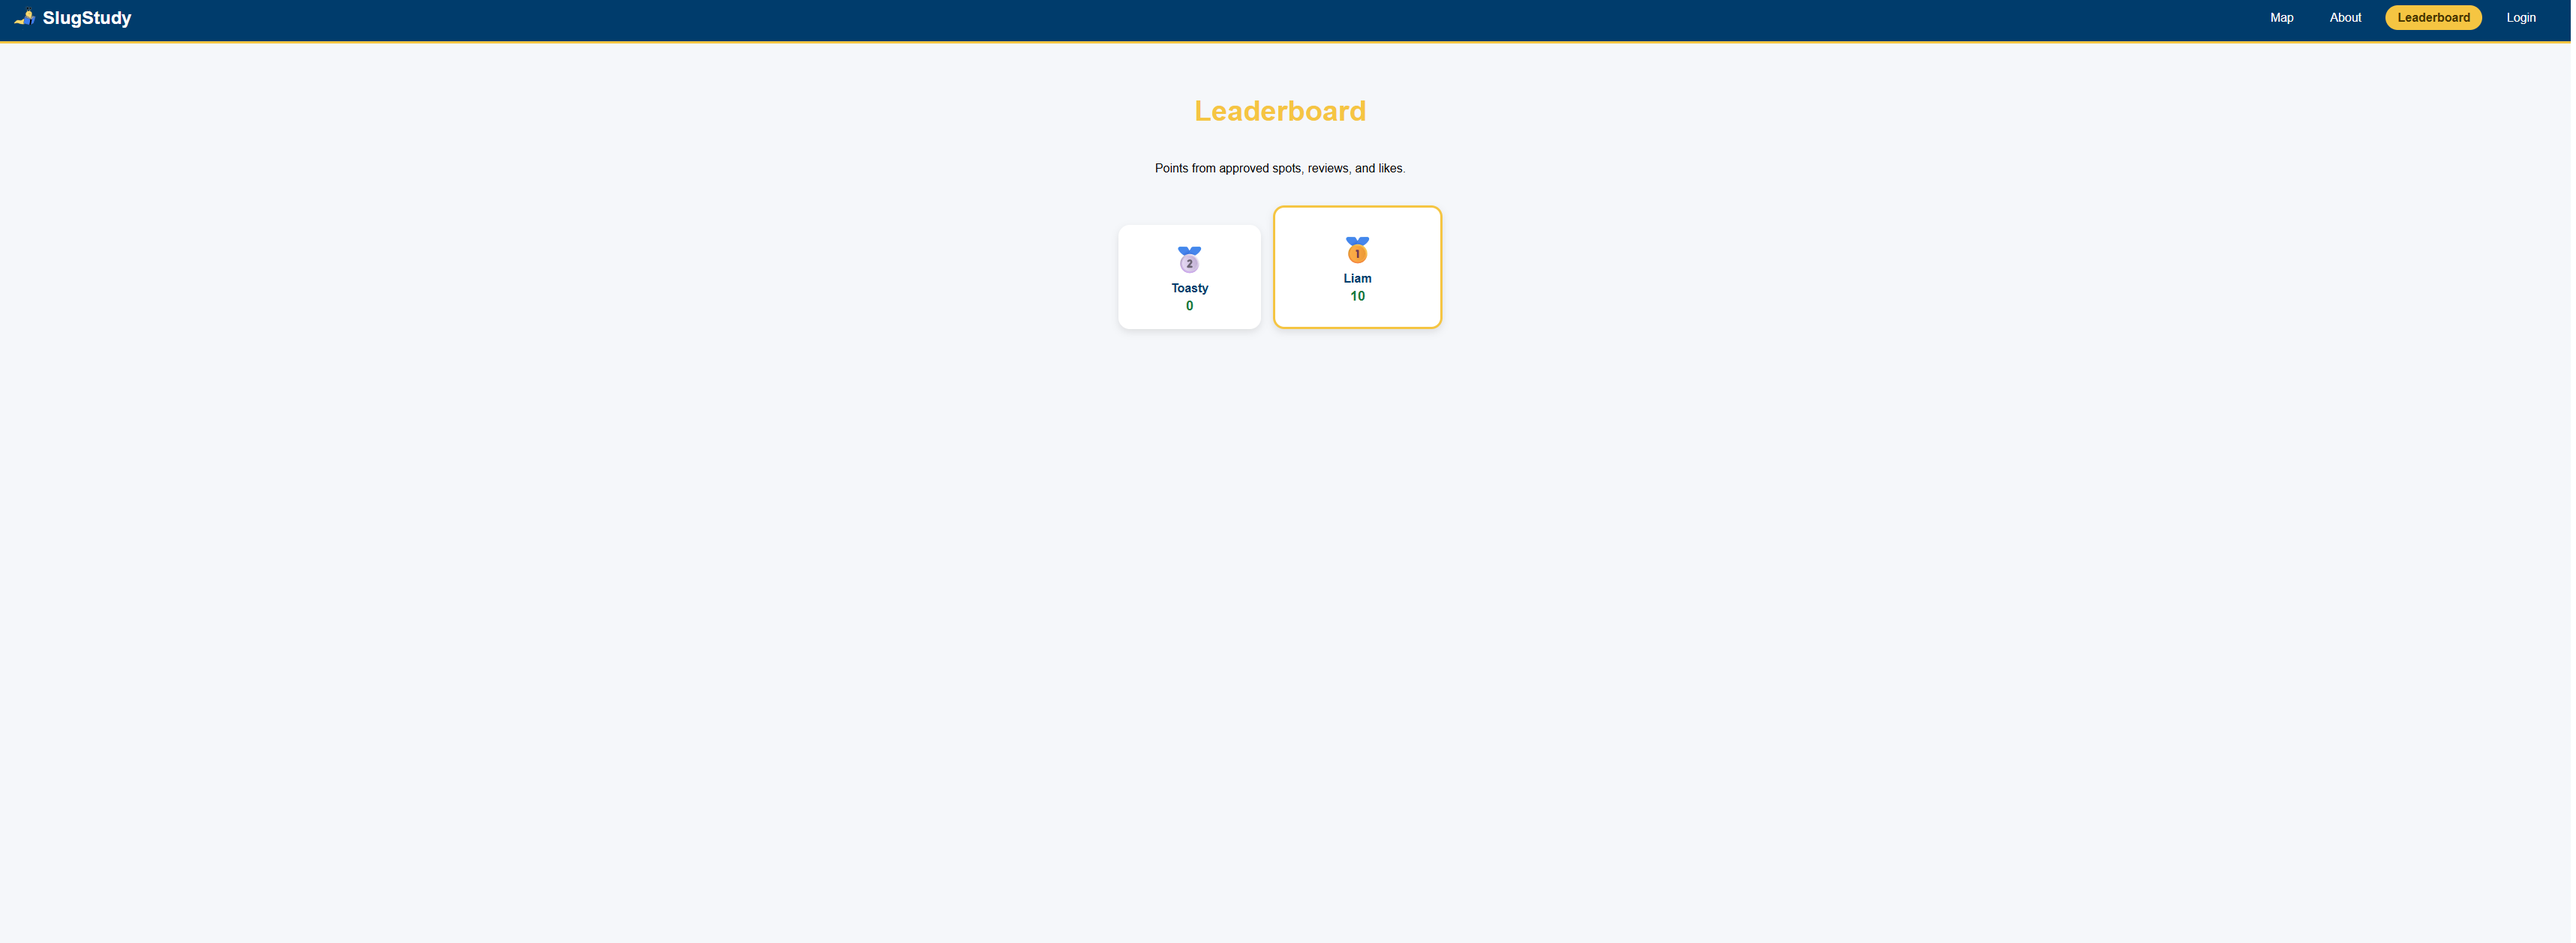
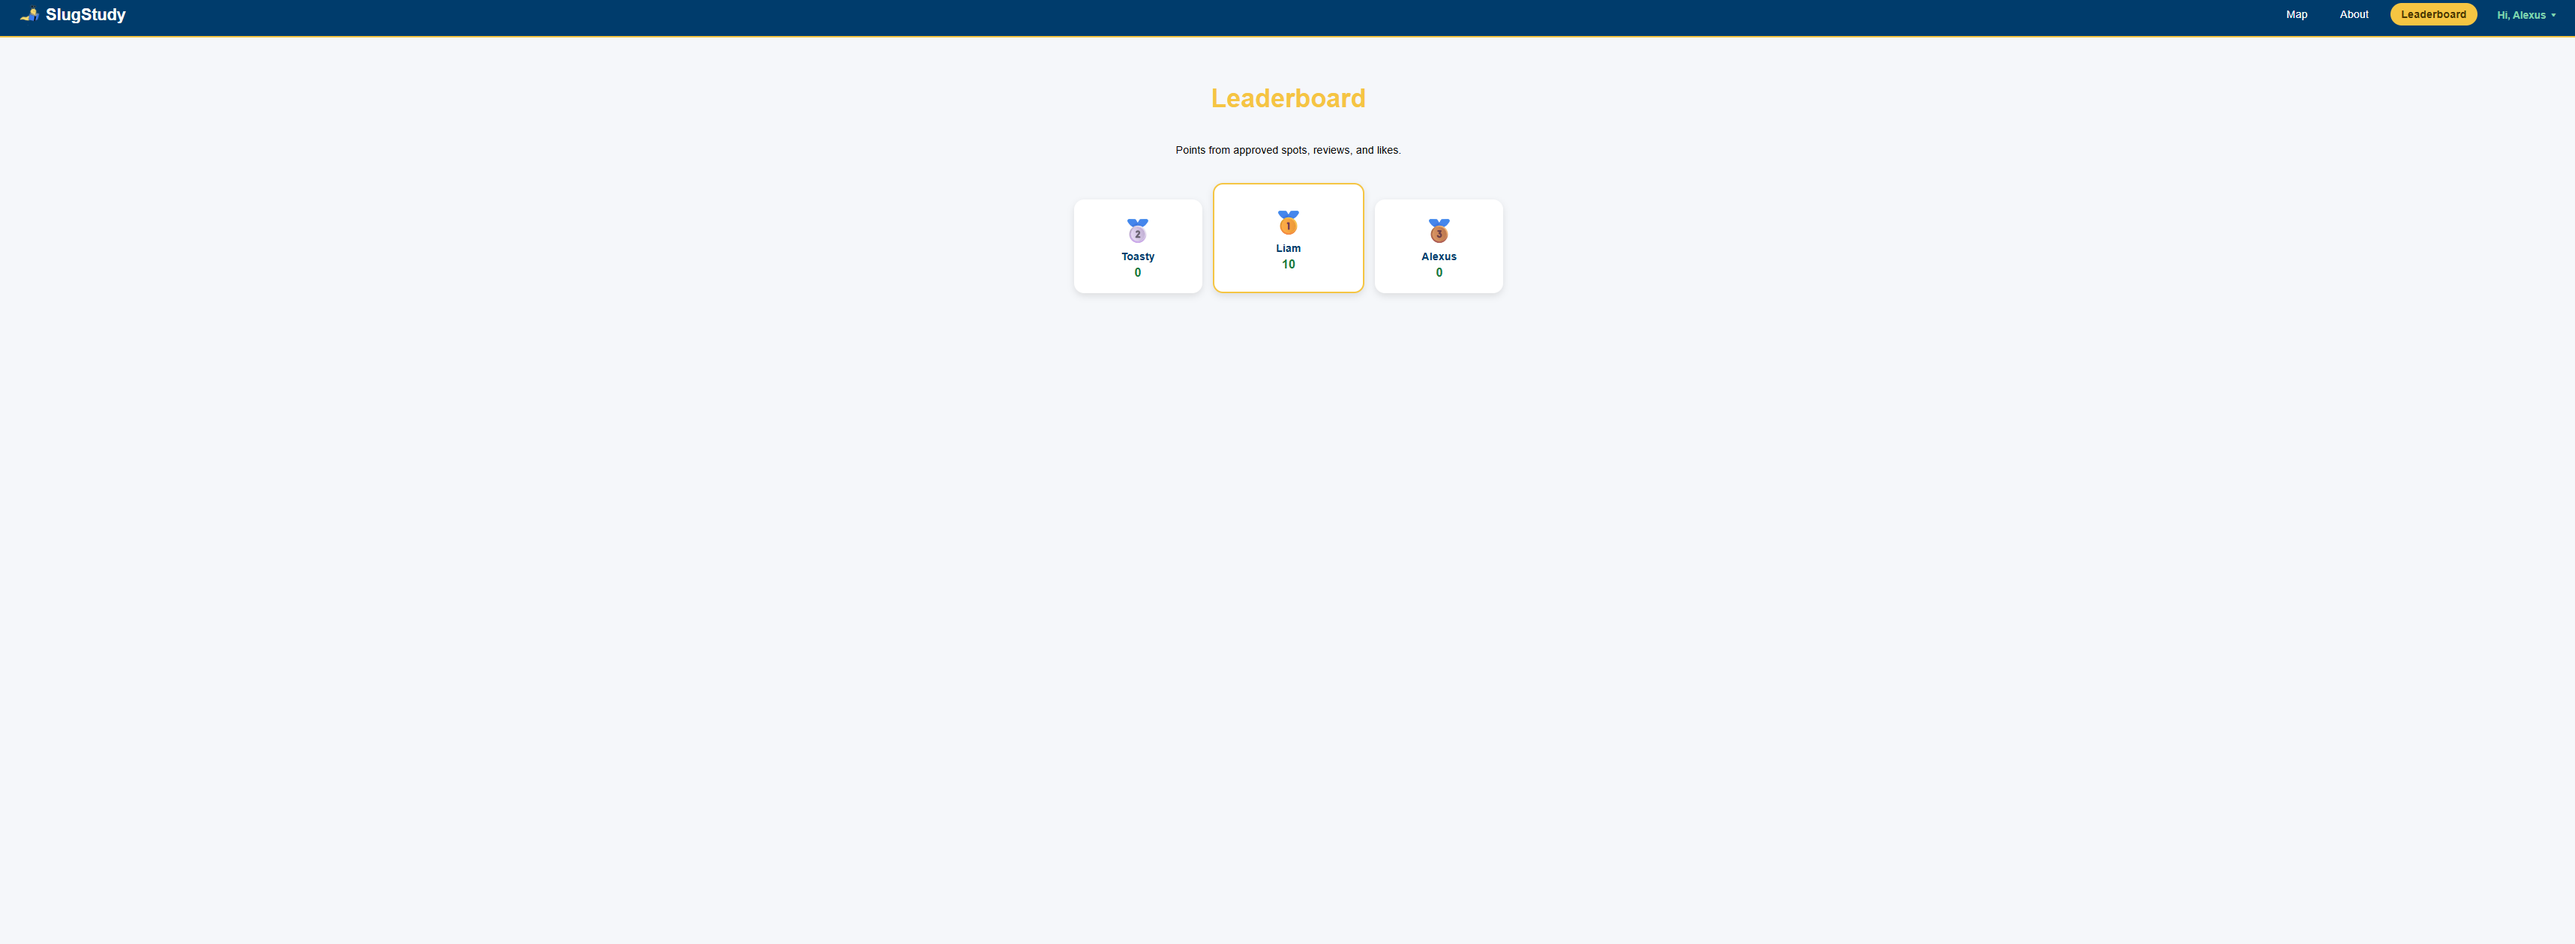
Update README

diff --git a/README.md b/README.md
@@ -4,7 +4,7 @@
 
 🔗 **Live site:** [slugstudy.pythonanywhere.com](https://slugstudy.pythonanywhere.com/)
 
-![SlugStudy map view](screenshot-map.png)
+![SlugStudy map view](screenshots/mainPage.jpg)
 
 ## Why I built this
 
@@ -25,8 +25,7 @@ UCSC has a ton of great study spots that never show up on any official campus ma
 
 ![Main Page](screenshots/mainPage.jpg)
 ![Leaderboard](screenshots/leaderboard.png)
-
-*(replace these with your actual screenshot filenames/paths)*
+![Profile](screenshots/profile.png)
 
 ## Tech stack
 
